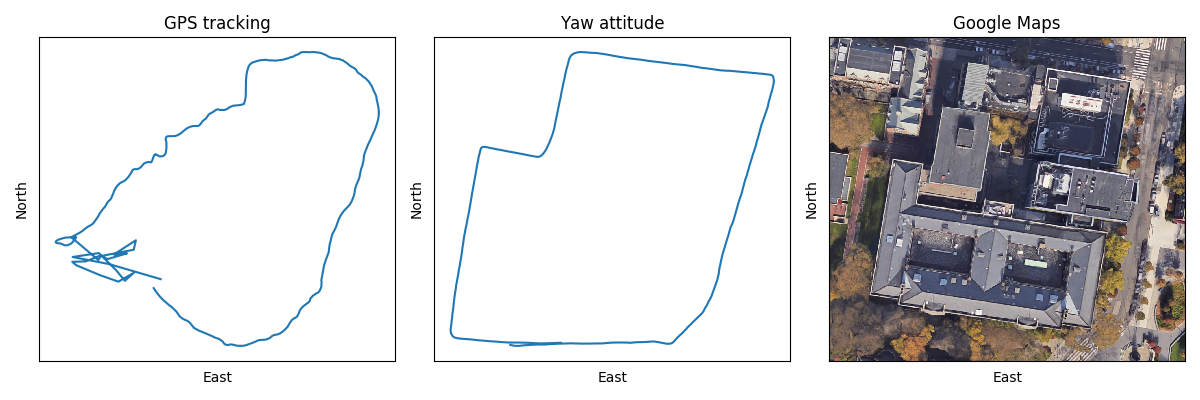
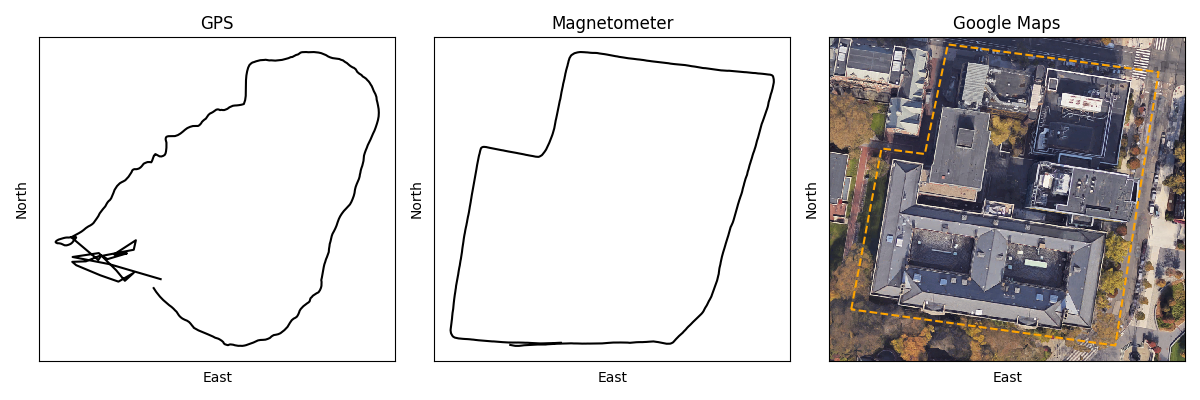
add pip requirements and refactor plot

diff --git a/src/demo.py b/src/demo.py
@@ -1,3 +1,4 @@
+import os.path as osp
 import numpy as np
 import matplotlib.pyplot as plt
 from dead_reckoning import *
@@ -7,17 +8,20 @@ def configure_axis(axis, title):
     axis.set_xticklabels([])
     axis.set_yticklabels([])
     axis.tick_params(axis='both', which='both', length=0)
-    axis.set_title(title)
     axis.set_xlabel('East')
     axis.set_ylabel('North')
+    axis.set_title(title)
 
 
-def plot_navigation(x1, y1, x2, y2, img):
+def plot_navigation(x0, y0, x1, y1, groundtruth, img):
+    x2, y2 = groundtruth.T
+
     fig, axarr = plt.subplots(nrows=1, ncols=3, figsize=(12, 4))
-    titles = ['GPS tracking', 'Yaw attitude', 'Google Maps']
+    titles = ['GPS', 'Magnetometer', 'Google Maps']
 
-    axarr[0].plot(x1, y1)
-    axarr[1].plot(x2, y2)
+    axarr[0].plot(x0, y0, c='black')
+    axarr[1].plot(x1, y1, c='black')
+    axarr[2].plot(x2, y2, c='orange', linestyle='dashed')
     axarr[2].imshow(img, aspect='auto')
 
     for i in range(3):
@@ -27,23 +31,28 @@ def plot_navigation(x1, y1, x2, y2, img):
     plt.savefig('../images/dead-reckoning.png')
 
 
-def main():
-    c0 = 40.075 * 1e6;  # Circumference of the Earth (m)
-    v0 = 0.97           # Measured walking speed (m/s)
-    dt = 0.02           # Interval between yaw samples (s)
+def demo():
+    circ = 40.075 * 1e6  # Circumference of the Earth (m)
+    vel = 0.97           # Measured walking speed (m/s)
+    dt = 0.02            # Interval between yaw samples (s)
 
-    fnames = ('../data/lati-longi.csv', '../data/yaw.csv')
-    lati, longi, yaw = load_data(*fnames)
+    datadir = osp.join('..', 'data')
+    fnames = ['lati-longi', 'yaw', 'groundtruth']
+    fpaths = [osp.join(datadir, f'{fname}.csv') for fname in fnames]
+    lati, longi, yaw, groundtruth = load_data(*fpaths)
 
-    x1, y1 = gen_xy_from_lati_longi(lati, longi, c0)
-    x1, y1 = rotate(x1, y1, -pi / 9)
+    x0, y0 = gen_xy_from_lati_longi(lati, longi, circ)
+    x0, y0 = rotate(x0, y0, -pi / 9)
 
-    x2, y2 = gen_xy_from_yaw(yaw, dt, v0)
-    x2, y2 = shift_and_scale(x1, y1, x2, y2)
+    x1, y1 = gen_xy_from_yaw(yaw, dt, vel)
+    x1, y1 = shift_and_scale(x0, y0, x1, y1)
 
     img = imread('../data/upenn.png')
-    plot_navigation(x1, y1, x2, y2, img)
+    plot_navigation(x0, y0, x1, y1, groundtruth, img)
 
+
+def main():
+    demo()
 
 if __name__ == '__main__':
     main()

diff --git a/src/dead_reckoning.py b/src/dead_reckoning.py
@@ -1,37 +1,38 @@
 import numpy as np
-from scipy.misc import imread
+from imageio import imread
 from numpy import cos, sin, pi
 
 
-def load_data(lati_longi_fname, yaw_fname):
-    lati_longi = np.loadtxt(lati_longi_fname, delimiter=',')
-    yaw = np.loadtxt(yaw_fname, delimiter=',')
-    lati = lati_longi[:, 0]
-    longi = lati_longi[:, 1]
-    return lati, longi, yaw
+def load_data(lati_longi_fname, yaw_fname, groundtruth_fname):
+    load = lambda f: np.loadtxt(f, delimiter=',')
+    lati_longi = load(lati_longi_fname)
+    yaw = load(yaw_fname)
+    groundtruth = load(groundtruth_fname)
+    lati, longi = lati_longi.T
+    return lati, longi, yaw, groundtruth
 
 
 def gen_xy_from_lati_longi(lati, longi, c0):
     lati_adj = lati - lati[0];
     longi_adj = longi - longi[0];   
 
-    x = -(c0 * cos(lati) / 360) * longi_adj
-    y = (c0 / 360) * lati_adj
+    x = -longi_adj * (c0 * cos(lati) / 360)
+    y = +lati_adj * (c0 / 360)
     return x, y
 
 
 def rotate(x, y, theta):
     c, s = cos(theta), sin(theta)
-    rotation = np.array([[c, -s], [s, c]])
+    rotation = [[c, -s], [s, c]]
     
-    xy = np.vstack((x.transpose(), y.transpose()))
-    xy = np.dot(rotation, xy)
-    return xy[0, :], xy[1, :]
+    xy = np.vstack((x.T, y.T))
+    x, y = np.dot(rotation, xy)
+    return x, y
 
 
 def gen_xy_from_yaw(yaw, dt, v0):
-    psiR = yaw
     psi0 = -pi / 2 + yaw[0]
+    psiR = yaw
 
     dxdt = v0 * sin(psi0 - psiR)
     dydt = v0 * cos(psi0 - psiR)
@@ -41,13 +42,17 @@ def gen_xy_from_yaw(yaw, dt, v0):
     return x, y
 
 
-def shift_and_scale(x1, y1, x2, y2):
-    sx = np.mean(x2) - np.mean(x1)
-    sy = np.mean(y2) - np.mean(y1)
+def shift_and_scale(x0, y0, x1, y1):
+    """
+    Ensure (x0, y0) and (x1, y1) 
+    have same mean and range.
+    """
+    ux = x1.mean() - x0.mean()
+    uy = y1.mean() - y0.mean()
 
-    alpha_x = (np.max(x2) - np.min(x2)) / (np.max(x1) - np.min(x1))
-    alpha_y = (np.max(y2) - np.min(y2)) / (np.max(y1) - np.min(y1))
+    alpha_x = (x1.max() - x1.min()) / (x0.max() - x0.min())
+    alpha_y = (y1.max() - y1.min()) / (y0.max() - y0.min())
 
-    x2 = (x2 - sx) / alpha_x
-    y2 = (y2 - sy) / alpha_y
-    return x2, y2
+    x1 = (x1 - ux) / alpha_x
+    y1 = (y1 - uy) / alpha_y
+    return x1, y1
